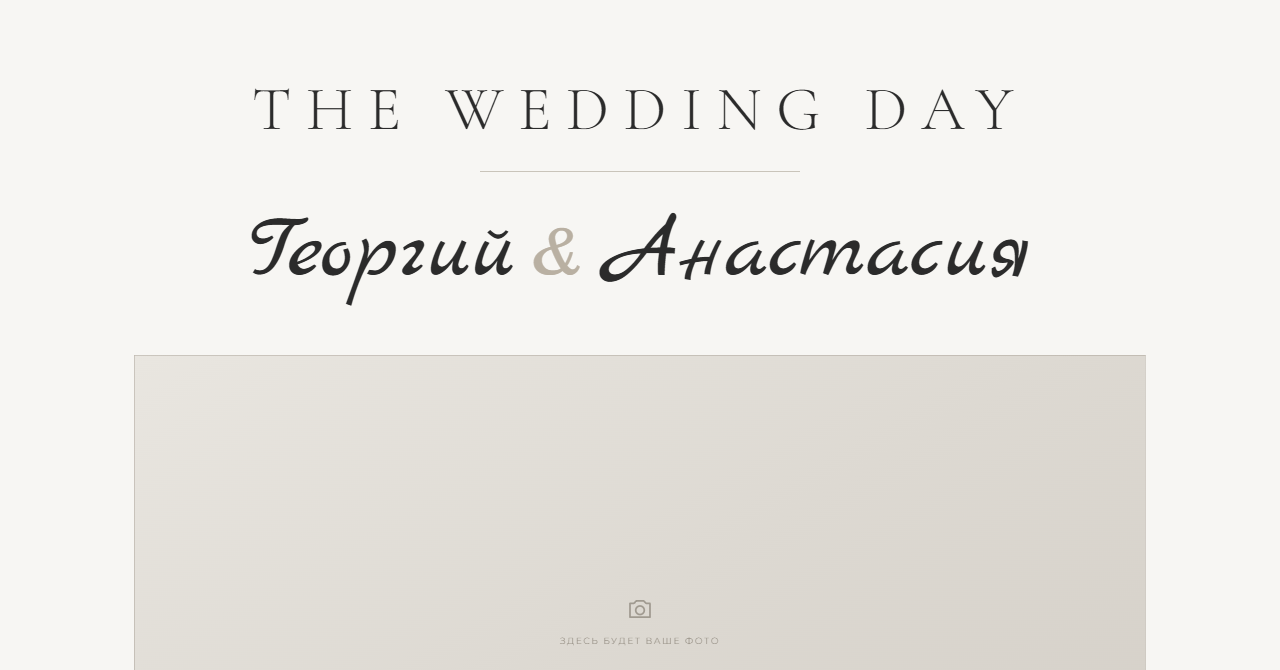
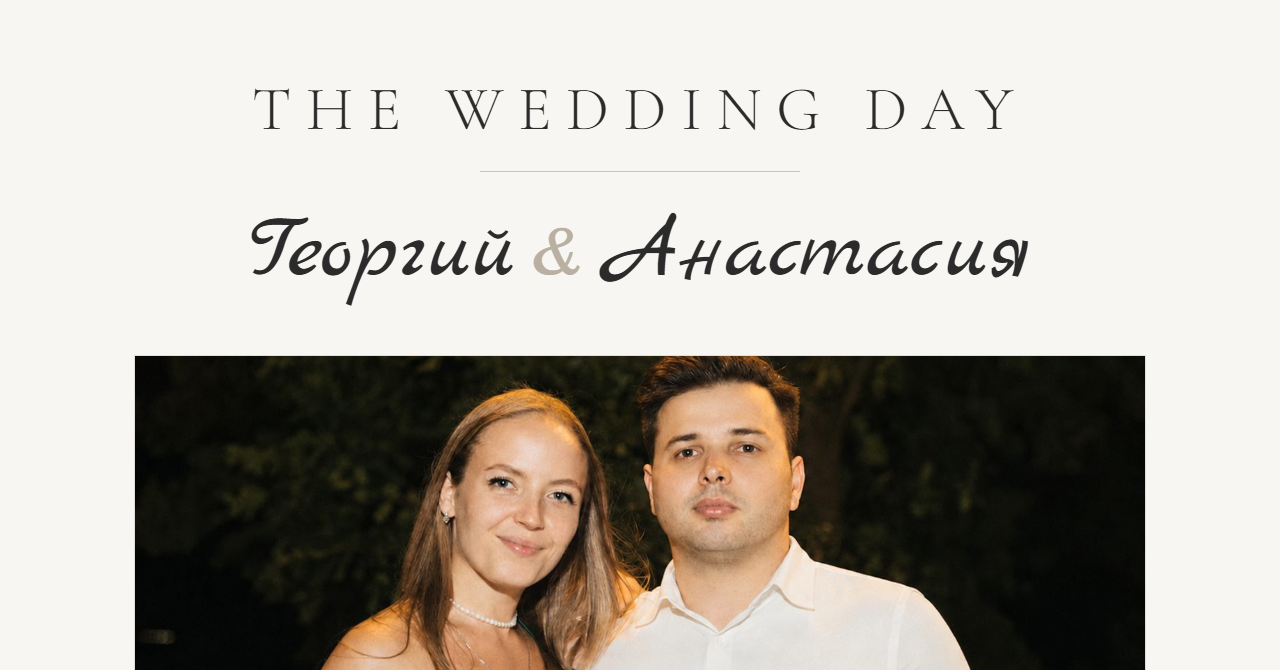
Add files via upload

diff --git a/wedding-style38-calligraphy-craft.html b/wedding-style38-calligraphy-craft.html
@@ -139,7 +139,7 @@
   /* обложка проявляется каскадом сразу при загрузке */
   .cover .caps.rv.on  { transition-delay: .15s; }
   .cover .names.rv.on { transition-delay: .45s; }
-  .cover .cover-photo.rv.on { transition-delay: .75s; }
+  .cover .cover-photo-img.rv.on { transition-delay: .75s; }
   .cover .names {
     font-family: 'Marck Script', cursive;
     font-size: clamp(38px, 8.4vw, 90px);
@@ -148,7 +148,10 @@
     margin-top: 6px;
   }
   .cover .names .amp { color: var(--script); padding: 0 .18em; }
-  .cover-photo { width: 100%; aspect-ratio: 16 / 8.4; margin-top: 44px; }
+  /* настоящие фотографии: пропорции снимков совпадают с рамками,
+     поэтому height:auto — кадр показывается целиком, без обрезки */
+  .photo { display: block; width: 100%; height: auto; }
+  .cover-photo-img { margin-top: 44px; border: 1px solid rgba(120,112,100,0.18); }
 
   /* ─── 2. история ─── */
   .story-grid {
@@ -534,10 +537,10 @@
     <h1 class="caps rv">The Wedding Day</h1>
     <hr class="rule">
     <p class="names rv">Георгий<span class="amp">&amp;</span>Анастасия</p>
-    <div class="ph cover-photo rv">
-      <svg viewBox="0 0 24 24" fill="none" stroke="currentColor" stroke-width="1.4" stroke-linecap="round" stroke-linejoin="round"><path d="M4 7.5h3.2L9 5.5h6l1.8 2H20v11H4z"/><circle cx="12" cy="13" r="3.4"/></svg>
-      <span>Здесь будет ваше фото</span>
-    </div>
+    <img class="photo cover-photo-img rv"
+         src="photos/photo-main.jpg"
+         alt="Георгий и Анастасия"
+         width="1451" height="1084">
   </div>
 </section>
 
@@ -557,10 +560,10 @@
         <!-- наклонённый лист с тёмным снимком, выглядывающий из-под основного -->
         <div class="sheet-back" aria-hidden="true"><div class="dark"></div></div>
         <div class="sheet">
-          <div class="ph">
-            <svg viewBox="0 0 24 24" fill="none" stroke="currentColor" stroke-width="1.4" stroke-linecap="round" stroke-linejoin="round"><path d="M4 7.5h3.2L9 5.5h6l1.8 2H20v11H4z"/><circle cx="12" cy="13" r="3.4"/></svg>
-            <span>Здесь будет ваше фото</span>
-          </div>
+          <img class="photo"
+               src="photos/photo-second.jpg"
+               alt="Георгий и Анастасия"
+               width="1086" height="1448" loading="lazy">
           <p class="sheet-cap">мы</p>
         </div>
       </div>

diff --git a/RSVP-НАСТРОЙКА.md b/RSVP-НАСТРОЙКА.md
@@ -1,0 +1,91 @@
+# Как включить сбор ответов от гостей
+
+Пошагово, ~15 минут. Программировать ничего не нужно — только скопировать код и вставить одну ссылку в два файла.
+
+## Что получится
+
+- Гость заполняет форму прямо в приглашении (имя, придёт или нет, сколько человек, меню, комментарий).
+- Ответ мгновенно падает строкой в вашу Google Таблицу.
+- Вы заходите на страницу `guests.html`, вводите пароль и видите таблицу всех ответов с итогом «сколько человек придёт».
+
+---
+
+## Шаг 1. Создайте таблицу
+
+1. Откройте [sheets.new](https://sheets.new) — создастся новая пустая Google Таблица.
+2. Назовите её как удобно, например «Свадьба — ответы гостей».
+3. Больше ничего в ней делать не надо: нужный лист и шапка создадутся сами при первом ответе.
+
+## Шаг 2. Вставьте код
+
+1. В этой же таблице сверху: **Расширения → Apps Script**.
+2. Откроется редактор кода. Удалите всё, что там есть.
+3. Откройте файл `rsvp-apps-script.gs` (лежит рядом с приглашениями), скопируйте **всё** его содержимое и вставьте в редактор.
+4. Найдите в самом верху строку:
+   ```js
+   var ADMIN_PASSWORD = 'СМЕНИТЕ_ЭТОТ_ПАРОЛЬ';
+   ```
+   Замените на свой пароль, например `var ADMIN_PASSWORD = 'Svadba2026Bereg';`
+   Это пароль, которым вы будете открывать список гостей.
+5. Нажмите значок дискеты (Сохранить).
+
+## Шаг 3. Опубликуйте
+
+1. Справа вверху — синяя кнопка **Начать развёртывание → Новое развёртывание**.
+2. Нажмите шестерёнку рядом с «Выберите тип» → выберите **Веб-приложение**.
+3. Заполните:
+   - **Описание** — любое, например «RSVP».
+   - **Запуск от имени** — `Я` (ваш аккаунт).
+   - **У кого есть доступ** — **`Все`**. ⚠ Это обязательно, иначе форма не сможет отправлять ответы. Не переживайте: сами данные закрыты паролем, «Все» относится только к возможности отправить в неё запрос.
+4. Нажмите **Развернуть**.
+5. Google попросит разрешение — нажмите «Разрешить доступ», выберите свой аккаунт. Если появится экран «Google не проверил это приложение» — нажмите **Дополнительные настройки → Перейти к «...» (небезопасно)**. Это нормально: приложение ваше собственное, проверку проходят только публичные приложения.
+6. Скопируйте появившийся **URL веб-приложения**. Он выглядит так:
+   ```
+   https://script.google.com/macros/s/AKfycb.....длинный..../exec
+   ```
+
+## Шаг 4. Вставьте ссылку в два файла
+
+Откройте блокнотом (или в редакторе кода) и вставьте скопированный адрес между кавычек:
+
+**1) `wedding-style37-paper-layers.html`** — найдите строку:
+```js
+var RSVP_ENDPOINT = '';
+```
+Станет:
+```js
+var RSVP_ENDPOINT = 'https://script.google.com/macros/s/AKfycb..../exec';
+```
+
+**2) `guests.html`** — там точно такая же строка, вставьте туда тот же адрес.
+
+Сохраните оба файла.
+
+## Шаг 5. Проверьте
+
+1. Залейте файлы на GitHub.
+2. Откройте приглашение, заполните форму, отправьте.
+3. Загляните в Google Таблицу — там должна появиться строка.
+4. Откройте `https://vladislavbropiton.github.io/lend1/guests.html`, введите пароль — увидите таблицу и итог.
+
+---
+
+## Важно знать
+
+**Пока адрес не вставлен** форма работает в демо-режиме: показывает «Спасибо!», но никуда не отправляет. Это удобно, чтобы показывать пример клиенту.
+
+**Про безопасность.** Пароль не хранится внутри `guests.html` — вы вводите его вручную, и проверяет его Google на своей стороне. Поэтому даже если кто-то откроет исходный код страницы, он не увидит ни пароля, ни списка гостей.
+
+**Страница `guests.html` закрыта от поисковиков** — в ней стоит запрет на индексацию, в Google её не найдут. Но ссылка сама по себе доступна всем, кто её знает, — защищает именно пароль. Не выкладывайте ссылку с паролем в открытый доступ.
+
+**Сменить пароль** можно в любой момент: в Apps Script поменяйте `ADMIN_PASSWORD`, сохраните и нажмите **Развёртывание → Управление развёртываниями → карандаш → Версия: Новая версия → Развернуть**. Адрес при этом не поменяется.
+
+**Если что-то поправили в коде скрипта** — не забудьте так же выпустить новую версию, иначе изменения не подхватятся.
+
+**Лимиты Google** — около 20 000 запросов в сутки на бесплатном аккаунте. Для свадьбы это с огромным запасом.
+
+---
+
+## Как перенести форму в другие приглашения
+
+Сейчас форма стоит только в «Бумажном коллаже» (`wedding-style37-paper-layers.html`). Чтобы добавить её в остальные — скажите, и я перенесу: код формы одинаковый, меняется только оформление под стиль конкретного приглашения.
